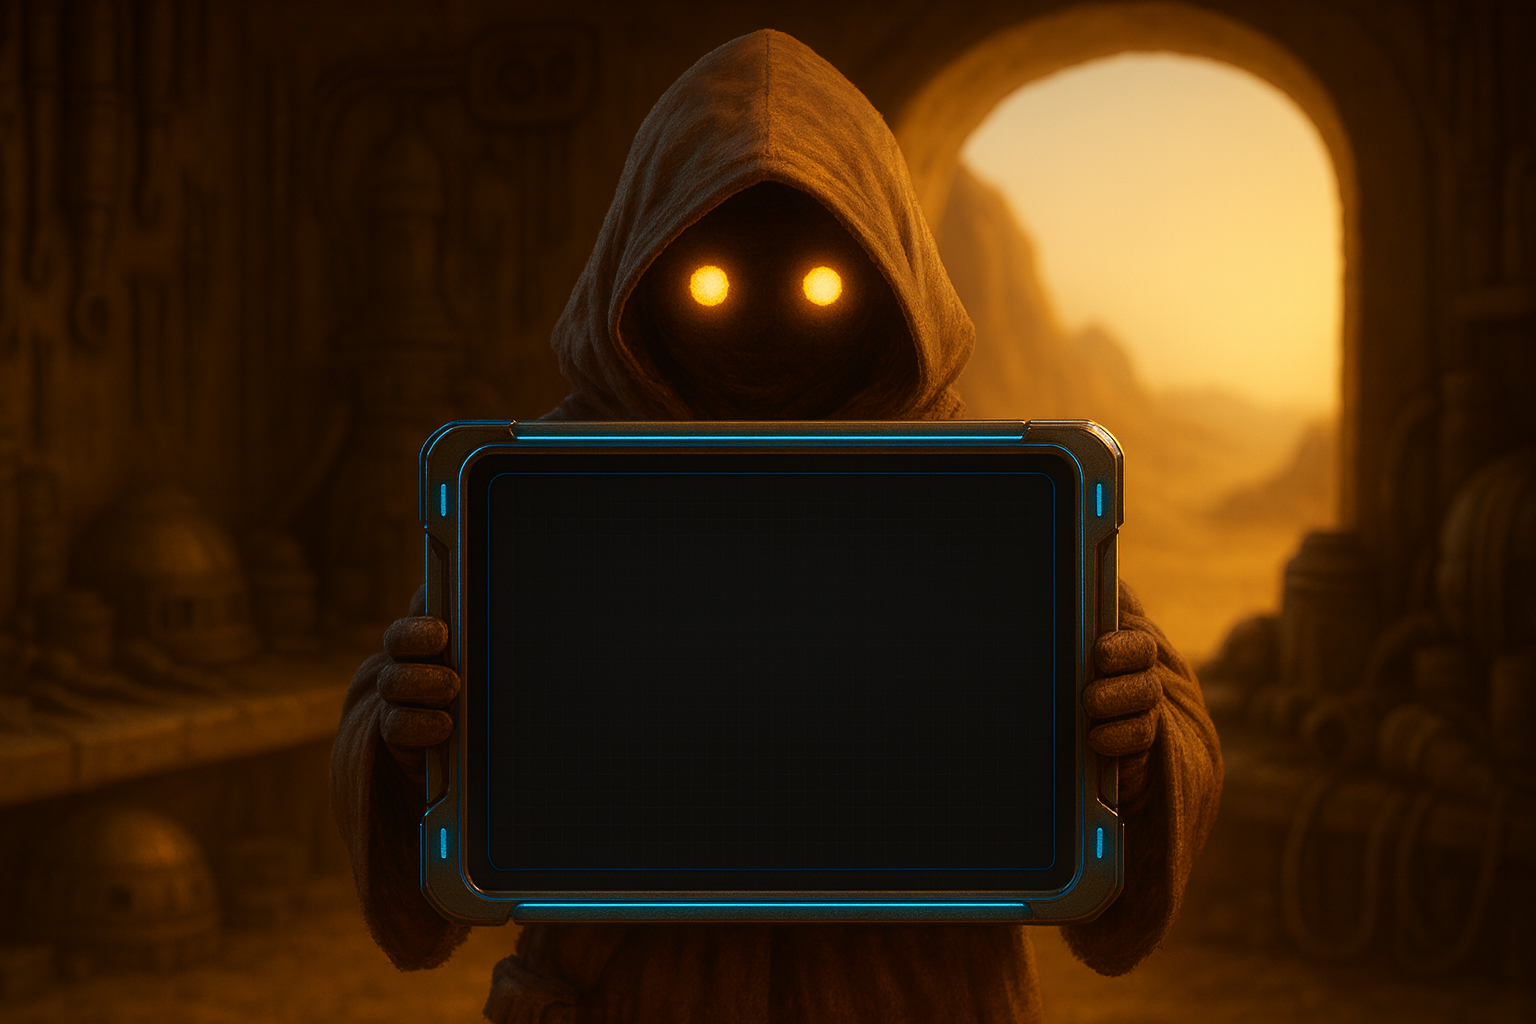
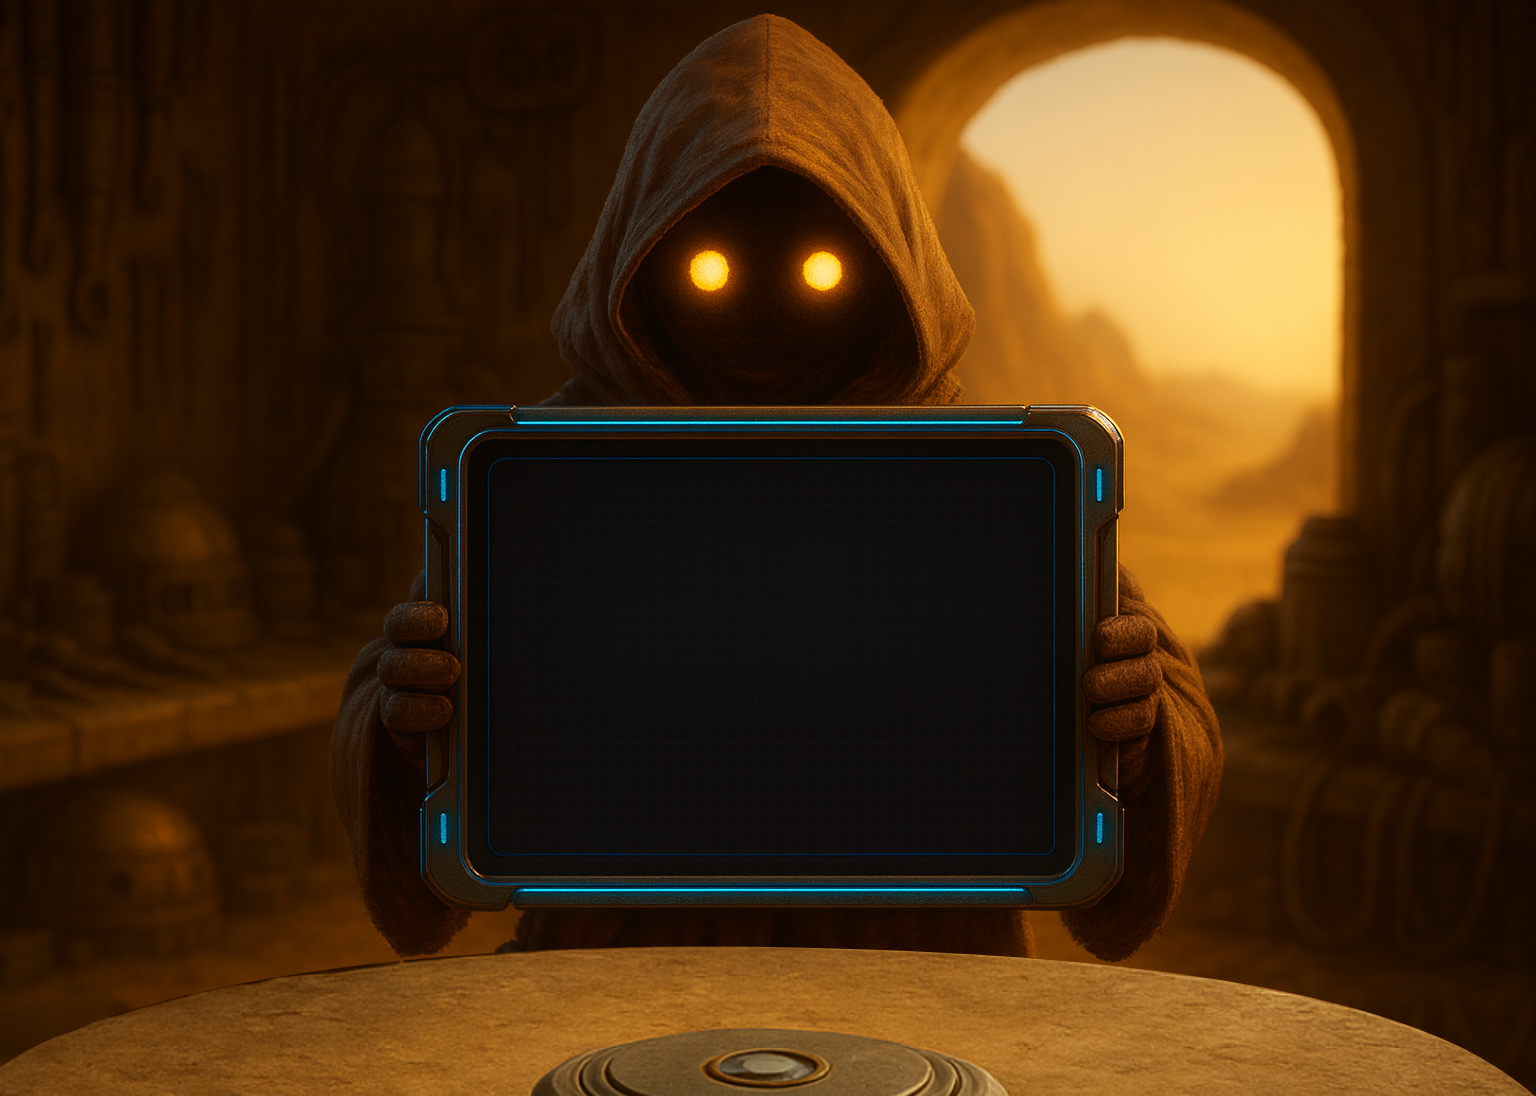
style(starship-details): wip details-panel div

diff --git a/teekas-garage/src/app/features/starships/starship-details/starship-details.html b/teekas-garage/src/app/features/starships/starship-details/starship-details.html
@@ -1,87 +1,88 @@
 <section class="starship-details" #scene>
     <div class="details-panel" #panel>
+        <div class="panel-content">
+            @if (loading()) {
+                <p aria-live="polite">Loading starship...</p>
+            }
+            @else if (error()) {
+                <div role="alert" class="error">
+                    <p>Ooops! {{error()}} </p>
+                    <a routerLink="/starships">Back to list</a>
+                </div>
+            }
+            @else if (starship()) {
+                <article>
+                    <div class="top">
+                        <div class="specs">
+                            <h3>{{ starship()?.name }}</h3>
 
-        @if (loading()) {
-            <p aria-live="polite">Loading starship...</p>
-        }
-        @else if (error()) {
-            <div role="alert" class="error">
-                <p>Ooops! {{error()}} </p>
-                <a routerLink="/starships">Back to list</a>
-            </div>
-        }
-        @else if (starship()) {
-            <article>
-                <div class="top">
-                    <div class="specs">
-                        <h3>{{ starship()?.name }}</h3>
-
-                        <ul>
-                            <li><strong>Model:</strong> {{ starship()?.model }}</li>
-                            <li><strong>Manufacturer:</strong> {{ starship()?.manufacturer }}</li>
-                            <li><strong>Cost in credits:</strong> {{ starship()?.costInCredits ?? 'unknown' }}</li>
-                            <li><strong>Length:</strong> {{ starship()?.length ?? 'unknown' }}</li>
-                            <li><strong>Max atmosphering speed:</strong> {{ starship()?.maxAtmospheringSpeed ?? 'n/a' }}</li>
-                            <li><strong>Crew:</strong> {{ starship()?.crew }}</li>
-                            <li><strong>Passengers:</strong> {{ starship()?.passengers }}</li>
-                            <li><strong>Cargo capacity:</strong> {{ starship()?.cargoCapacity }}</li>
-                            <li><strong>Consumables:</strong> {{ starship()?.consumables }}</li>
-                            <li><strong>Hyperdrive rating:</strong> {{ starship()?.hyperdriveRating }}</li>
-                            <li><strong>MGLT:</strong> {{ starship()?.mglt }}</li>
-                            <li><strong>Class:</strong> {{ starship()?.starshipClass }}</li>
-                        </ul>
-                    </div>
-
-                        <p class="ship-image">
-                            <img
-                                [src]="starship()?.imageUrl"
-                                alt="Image of {{ starship()?.name }}"
-                                width="360"
-                                height="220"
-                                loading="lazy"
-                                (error)="onImgError($event, '/img/placeholder-ship.png')"
-                            />
-                        </p>
-                </div>  
-                        <div class="meta">
-                            <section class="meta__col meta__col--pilots">
-                                <h4>Pilots</h4>
-                                @if (starship()?.pilots?.length) {
-                                <ul class="pilots">
-                                    @for (p of starship()!.pilots; track p.id) {
-                                    <li>
-                                        <img
-                                        [src]="p.imageUrl"
-                                        alt="Photo of {{ p.name }}"
-                                        width="48" height="48"
-                                        (error)="onImgError($event, '/img/placeholder-pilot.png')"
-                                        />
-                                        <span>{{ p.name }}</span>
-                                    </li>
-                                    }
-                                </ul>
-                                } @else {
-                                <p>No known pilots.</p>
-                                }
-                            </section>
-
-                            <section class="meta__col meta__col--films">
-                                <h4>Films</h4>
-                                @if (starship()?.films?.length) {
-                                <ul class="films">
-                                    @for (f of starship()!.films; track f.id) {
-                                    <li>
-                                        <strong>Ep {{ f.episode }}</strong> — {{ f.title }}
-                                        <small>({{ f.releaseDate }})</small>
-                                    </li>
-                                    }
-                                </ul>
-                                } @else {
-                                <p>Not featured in films.</p>
-                                }
-                            </section>
+                            <ul>
+                                <li><strong>Model:</strong> {{ starship()?.model }}</li>
+                                <li><strong>Manufacturer:</strong> {{ starship()?.manufacturer }}</li>
+                                <li><strong>Cost in credits:</strong> {{ starship()?.costInCredits ?? 'unknown' }}</li>
+                                <li><strong>Length:</strong> {{ starship()?.length ?? 'unknown' }}</li>
+                                <li><strong>Max atmosphering speed:</strong> {{ starship()?.maxAtmospheringSpeed ?? 'n/a' }}</li>
+                                <li><strong>Crew:</strong> {{ starship()?.crew }}</li>
+                                <li><strong>Passengers:</strong> {{ starship()?.passengers }}</li>
+                                <li><strong>Cargo capacity:</strong> {{ starship()?.cargoCapacity }}</li>
+                                <li><strong>Consumables:</strong> {{ starship()?.consumables }}</li>
+                                <li><strong>Hyperdrive rating:</strong> {{ starship()?.hyperdriveRating }}</li>
+                                <li><strong>MGLT:</strong> {{ starship()?.mglt }}</li>
+                                <li><strong>Class:</strong> {{ starship()?.starshipClass }}</li>
+                            </ul>
                         </div>
-            </article>    
-        }
+
+                            <p class="ship-image">
+                                <img
+                                    [src]="starship()?.imageUrl"
+                                    alt="Image of {{ starship()?.name }}"
+                                    width="360"
+                                    height="220"
+                                    loading="lazy"
+                                    (error)="onImgError($event, '/img/placeholder-ship.png')"
+                                />
+                            </p>
+                    </div>  
+                            <div class="meta">
+                                <section class="meta__col meta__col--pilots">
+                                    <h4>Pilots</h4>
+                                    @if (starship()?.pilots?.length) {
+                                    <ul class="pilots">
+                                        @for (p of starship()!.pilots; track p.id) {
+                                        <li>
+                                            <img
+                                            [src]="p.imageUrl"
+                                            alt="Photo of {{ p.name }}"
+                                            width="48" height="48"
+                                            (error)="onImgError($event, '/img/placeholder-pilot.png')"
+                                            />
+                                            <span>{{ p.name }}</span>
+                                        </li>
+                                        }
+                                    </ul>
+                                    } @else {
+                                    <p>No known pilots.</p>
+                                    }
+                                </section>
+
+                                <section class="meta__col meta__col--films">
+                                    <h4>Films</h4>
+                                    @if (starship()?.films?.length) {
+                                    <ul class="films">
+                                        @for (f of starship()!.films; track f.id) {
+                                        <li>
+                                            <strong>Ep {{ f.episode }}</strong> — {{ f.title }}
+                                            <small>({{ f.releaseDate }})</small>
+                                        </li>
+                                        }
+                                    </ul>
+                                    } @else {
+                                    <p>Not featured in films.</p>
+                                    }
+                                </section>
+                            </div>
+                </article>    
+            }
+        </div>
     </div>
 </section>

diff --git a/teekas-garage/src/app/features/starships/starship-details/starship-details.scss b/teekas-garage/src/app/features/starships/starship-details/starship-details.scss
@@ -2,7 +2,7 @@
   position: relative;
   inset: 0;
   z-index: 0;
-  background: url('/img/garage-background_6.png') center/cover no-repeat;
+  background: url('/img/garage-background_7.png') center/cover no-repeat;
   display: grid;
   place-items: center;
   padding: 1rem;
@@ -18,7 +18,7 @@
   position: absolute;
   transform: translate(-0%, 30%);
   margin: 0;
-  width: min(750px, 100%);
+  width: min(600px, 100%);
   margin-inline: auto;
   padding: clamp(16px, 3vw, 32px);
   border-radius: 16px;
@@ -26,6 +26,14 @@
   backdrop-filter: blur(6px);
   border: 1px solid rgba(255,255,255,0.08);
   box-shadow: 0 10px 30px rgba(0,0,0,0.35);
+    --fz-base: 0.95rem;    /* tamaño base (≈14–15px si root=16px) */
+  --lh: 1.35;            /* interlineado compacto */
+  --fz-h3: 1.08rem;      /* título principal del panel */
+  --fz-h4: 0.98rem;      /* subtítulos (Pilots/Films) */
+  --space-y: .4rem;      /* espaciado vertical base */
+
+  font-size: var(--fz-base);
+  line-height: var(--lh);
 }
 
 .details-panel h1,
